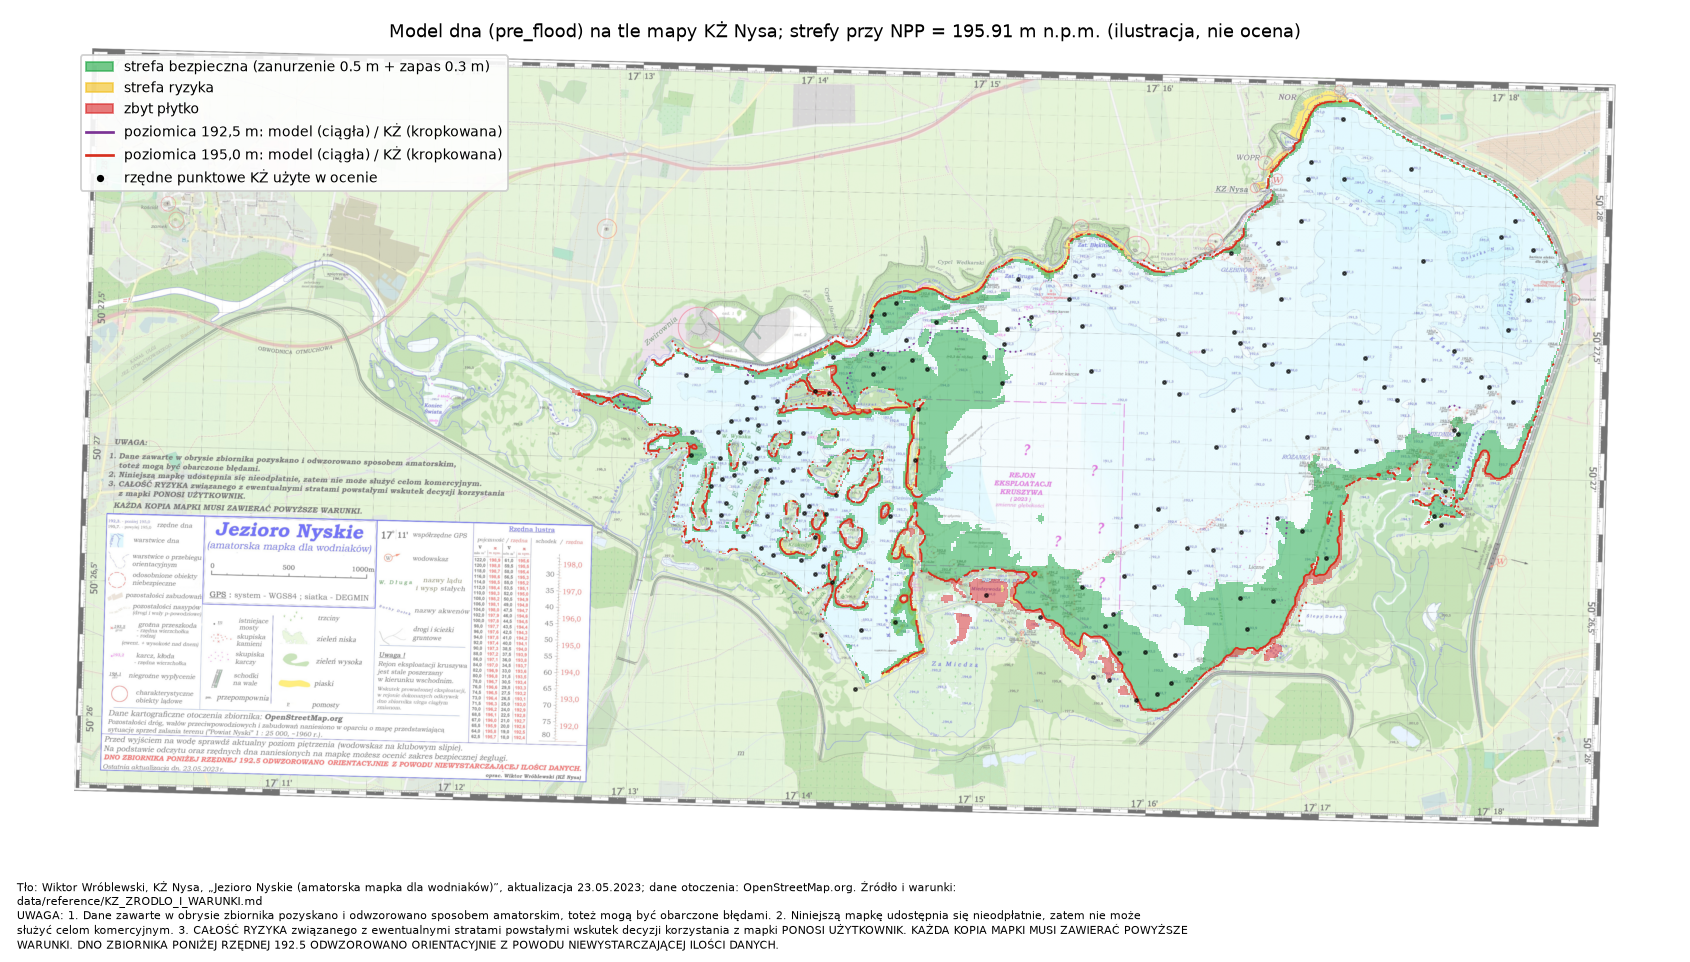
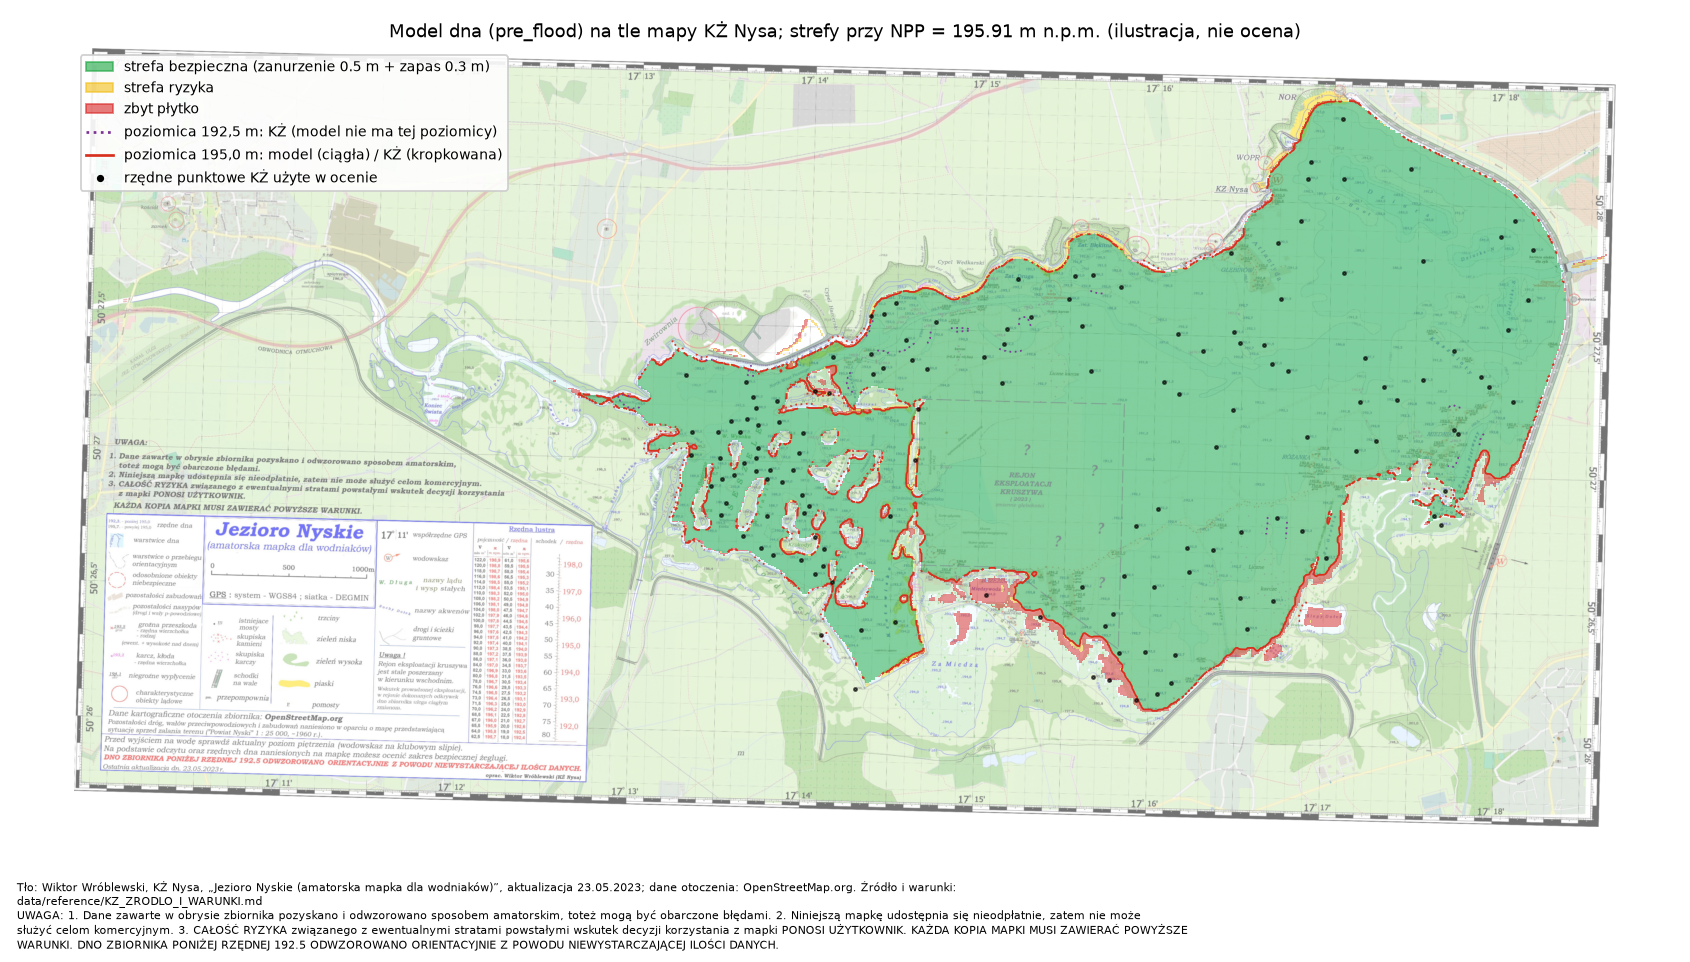
fix(pipeline): KŻ positional rejects, variant D on ≥192.5 spots, docs

diff --git a/JezioroNyskie/pipeline/10_kz_compare.py b/JezioroNyskie/pipeline/10_kz_compare.py
@@ -41,7 +41,10 @@ import matplotlib
 
 matplotlib.use("Agg")
 import matplotlib.pyplot as plt
+import textwrap
 from matplotlib.colors import ListedColormap
+from matplotlib.lines import Line2D
+from matplotlib.patches import Patch
 from pathlib import Path
 
 from mielizna import bottom, kz, kz_compare, variant_d
@@ -59,6 +62,7 @@ UWAGA = ("UWAGA: 1. Dane zawarte w obrysie zbiornika pozyskano i odwzorowano spo
          "Z POWODU NIEWYSTARCZAJĄCEJ ILOŚCI DANYCH.")
 SOURCE = ("Tło: Wiktor Wróblewski, KŻ Nysa, „Jezioro Nyskie (amatorska mapka dla wodniaków)”, aktualizacja 23.05.2023; "
           "dane otoczenia: OpenStreetMap.org. Źródło i warunki: data/reference/KZ_ZRODLO_I_WARUNKI.md")
+SOURCE_REF = "data/reference/KZ_ZRODLO_I_WARUNKI.md"
 DRAFT, MARGIN = 0.5, 0.3      # parametry ilustracyjne stref nakładki (zanurzenie, zapas); to nie jest wynik oceny
 
 
@@ -105,7 +109,7 @@ def run_points() -> dict:
                 "n_spots_used": int(len(spots)), "n_spots_checked": int(spots.checked.sum()),
                 "spots_source": spots.z_source.value_counts().to_dict(),
                 "gravel_excluded": int(shapely.contains_xy(gravel, spots.geometry.x, spots.geometry.y).sum()),
-                "bias_definition": "bias = średnia(model z - KŻ z)", "indicative": True})
+                "bias_definition": "bias = średnia(model z - KŻ z)", "indicative": True, "source": SOURCE_REF})
     if qc is not None and len(qc):
         matched, n_unmatched = kz.match_qc(qc, ocr)                          # QC z kotwicą -> id punktu OCR
         matched = matched.merge(ocr[["id", "color_ok", "conf"]], on="id", how="left")
@@ -125,7 +129,7 @@ def run_contours() -> dict:
     grid = reference_grid()
     model, _ = bottom.read_model(proc / "model" / "pre_flood")
     kzc = gpd.read_file(proc / "kz" / "kz_contours.gpkg")
-    res = {"model": "pre_flood", "indicative": True,
+    res = {"model": "pre_flood", "indicative": True, "source": SOURCE_REF,
            "note": "poziomice KŻ to próbka precision-first (nie cała poziomica); wynik orientacyjny"}
     for level in (192.5, 195.0):
         kz_geom = shapely.union_all(kzc[kzc.level == level].geometry.to_numpy())
@@ -151,7 +155,7 @@ def run_compare() -> int:
            "go_no_go": gng, "ocr_error_rate": pts.get("ocr_error_rate"), "bands": {k: pts[k] for k in kz_compare.BAND_KEYS},
            "contours": {k: v for k, v in con.items() if k[0].isdigit()}, "georef_verdict": pts["georef_verdict"],
            "unit": pts["unit"], "npp": pts["npp"], "indicative": True,
-           "source": "data/reference/KZ_ZRODLO_I_WARUNKI.md"}
+           "source": SOURCE_REF}
     _write("kz_compare.json", out)
     log.info("go/no-go: %s (bias %+.2f)", gng["decision"], p["bias"])
     return 0
@@ -163,14 +167,15 @@ def run_overlay() -> int:
     model, _ = bottom.read_model(proc / "model" / "pre_flood")
     npp = kz_compare.npp_level(pd.read_csv(data_path("reference", "kz_pojemnosc_rzedna.csv")))
     zl, zh, z = model["z_min"], model["z_max"], model["z"]
-    in_model = np.isfinite(z)
-    lo = np.where(np.isnan(zl), -np.inf, zl)
-    hi = np.where(np.isnan(zh), np.inf, zh)
+    obs, flags = model["obs_count"], model["flags"]
+    in_model = ~((obs == 0) | (obs == 65535) | (flags == 255))     # jak backend/app/data.py
+    lo = np.where(in_model, np.where(np.isnan(zl), -np.inf, zl), np.nan)   # NaN w z_min = zawsze woda, w z_max = zawsze ląd
+    hi = np.where(in_model, np.where(np.isnan(zh), np.inf, zh), np.nan)
     with np.errstate(invalid="ignore"):
         cls = np.full(z.shape, 2, int)                          # 2 = ryzyko
         cls[npp - hi >= DRAFT + MARGIN] = 1                     # 1 = bezpiecznie (jak backend/app/zones.py)
         cls[npp - lo < DRAFT] = 3                               # 3 = zbyt płytko
-    cls = np.where(in_model & (npp > z), cls, 0)
+    cls = np.where(in_model & (npp > lo), cls, 0)                # tylko woda przy NPP (jak zone_stats: h > z_lo)
     cmap = ListedColormap([(0, 0, 0, 0), (0.1, 0.65, 0.25, 0.5), (0.95, 0.75, 0.1, 0.5), (0.85, 0.15, 0.15, 0.5)])
     with rasterio.open(proc / "kz" / "kz_map_2180.tif") as ds:
         img = np.moveaxis(ds.read(), 0, -1)
@@ -181,9 +186,8 @@ def run_overlay() -> int:
     ax.imshow(rgba, extent=(b.left, b.right, b.bottom, b.top), interpolation="bilinear")
     xmin, ymin, xmax, ymax = grid.bounds()
     ax.imshow(cls, extent=(xmin, xmax, ymin, ymax), cmap=cmap, vmin=0, vmax=3, interpolation="nearest")
-    for level, col in ((192.5, "#7b3294"), (195.0, "#d7301f")):
-        line = kz_compare.model_contour(z, grid, level)
-        for g in line.geoms:
+    for level, col in ((192.5, "#7b3294"), (195.0, "#d7301f")):        # 192,5 m: model go nie ma (z_min = 192,94), pętla nic nie rysuje
+        for g in kz_compare.model_contour(z, grid, level).geoms:
             ax.plot(*g.xy, color=col, lw=1.0)
     kzc = gpd.read_file(proc / "kz" / "kz_contours.gpkg")
     for level, col in ((192.5, "#7b3294"), (195.0, "#d7301f")):
@@ -192,21 +196,28 @@ def run_overlay() -> int:
     _, _, spots = _qc_spots()
     ax.scatter(spots.geometry.x, spots.geometry.y, s=3, c="k", alpha=0.6, zorder=5)
     ax.set_xlim(b.left, b.right); ax.set_ylim(b.bottom, b.top); ax.set_aspect("equal"); ax.axis("off")
-    from matplotlib.lines import Line2D
-    from matplotlib.patches import Patch
     ax.legend(handles=[Patch(color=(0.1, 0.65, 0.25, 0.6), label=f"strefa bezpieczna (zanurzenie {DRAFT} m + zapas {MARGIN} m)"),
                        Patch(color=(0.95, 0.75, 0.1, 0.6), label="strefa ryzyka"), Patch(color=(0.85, 0.15, 0.15, 0.6), label="zbyt płytko"),
-                       Line2D([], [], color="#7b3294", label="poziomica 192,5 m: model (ciągła) / KŻ (kropkowana)"),
+                       Line2D([], [], color="#7b3294", ls=":", label="poziomica 192,5 m: KŻ (model nie ma tej poziomicy)"),
                        Line2D([], [], color="#d7301f", label="poziomica 195,0 m: model (ciągła) / KŻ (kropkowana)"),
                        Line2D([], [], marker="o", color="k", ls="", ms=3, label="rzędne punktowe KŻ użyte w ocenie")],
               loc="upper left", fontsize=7.5, framealpha=0.9)
     ax.set_title(f"Model dna (pre_flood) na tle mapy KŻ Nysa; strefy przy NPP = {npp:.2f} m n.p.m. (ilustracja, nie ocena)", fontsize=10)
-    import textwrap
     fig.text(0.01, 0.01, "\n".join(textwrap.wrap(SOURCE, 190) + textwrap.wrap(UWAGA, 190)), fontsize=6, va="bottom", ha="left")
     fig.subplots_adjust(left=0.01, right=0.99, top=0.95, bottom=0.14)
     IMG.mkdir(parents=True, exist_ok=True)
     fig.savefig(IMG / "kz-overlay.png", dpi=130)
     log.info("zapisano %s", IMG / "kz-overlay.png")
+    return 0
+
+
+def run_points_cmd() -> int:
+    run_points()
+    return 0
+
+
+def run_contours_cmd() -> int:
+    run_contours()
     return 0
 
 
@@ -284,7 +295,7 @@ def main(argv=None) -> int:
     ap = argparse.ArgumentParser(description=__doc__.splitlines()[0])
     ap.add_argument("cmd", choices=["variant-d", "points", "contours", "overlay", "compare"])
     args = ap.parse_args(argv)
-    return {"variant-d": run_variant_d, "points": lambda: (run_points(), 0)[1], "contours": lambda: (run_contours(), 0)[1],
+    return {"variant-d": run_variant_d, "points": run_points_cmd, "contours": run_contours_cmd,
             "overlay": run_overlay, "compare": run_compare}[args.cmd]()
 
 

diff --git a/JezioroNyskie/pipeline/mielizna/kz.py b/JezioroNyskie/pipeline/mielizna/kz.py
@@ -783,7 +783,7 @@ def vertices_to_polygon(verts, t: "KzTransform"):
     return poly
 
 
-def load_qc_spots(ocr: "gpd.GeoDataFrame", qc: pd.DataFrame | None) -> "gpd.GeoDataFrame":
+def load_qc_spots(ocr: "gpd.GeoDataFrame", qc: pd.DataFrame | None, position_reject: list[dict] | None = None) -> "gpd.GeoDataFrame":
     """Punkty rzędnych mapy KŻ nadające się do użycia (wariant D, K5): po kontroli ręcznej, a bez niej po filtrze.
 
     Co robi: wiersze QC przypisuje do punktów OCR po kotwicy (`match_qc`: ≤ 3 px i ta sama `ocr_z`). Punkt z
@@ -794,9 +794,22 @@ def load_qc_spots(ocr: "gpd.GeoDataFrame", qc: pd.DataFrame | None) -> "gpd.GeoD
       nieocenionych, więc oceny ręczne zawsze wygrywają z filtrem.
     Wejście → wyjście: GeoDataFrame OCR (id, z, px, py, conf, color_ok, geometry) i QC (ocr_z, qc, z_qc, px, py)
       lub None -> GeoDataFrame tych punktów z kolumną `z` (po korekcie) i `z_source` in {ocr_ok, qc_ok, qc_corrected}.
+      `position_reject` (domyślnie `kz.spot_position_reject` z config.yaml): lista wpisów {px, py, ocr_z, reason} punktów, których
+      KOTWICA stoi w złym miejscu (np. na przecinku/kropce innej liczby). Kontrola ręczna ocenia rzędną, nie może przesunąć
+      kotwicy, więc takie punkty (nawet `ok`/`corrected`) odpadają, dopasowane jak `match_qc` (≤ 3 px i ta sama `ocr_z`).
     Jak to obronić: testy obu ścieżek; kolor i pewność to te same progi co warstwa „podejrzane” w kontroli."""
     out = ocr.copy()
     out["z_source"] = "unchecked"
+    if position_reject is None:
+        from mielizna.config import load_config
+        position_reject = load_config().get("kz", {}).get("spot_position_reject") or []
+    pos_hit = np.zeros(len(out), bool)
+    for e in position_reject:
+        d = np.hypot(out["px"].to_numpy(float) - float(e["px"]), out["py"].to_numpy(float) - float(e["py"]))
+        hit = (d <= QC_MATCH_PX) & (np.abs(out["z"].to_numpy(float) - float(e["ocr_z"])) < QC_MATCH_DZ)
+        if hit.any():
+            logging.getLogger(__name__).info("load_qc_spots: odrzucono %d punkt(ów) o błędnej kotwicy (%s)", int(hit.sum()), e.get("reason", ""))
+            pos_hit |= hit
     if qc is not None and len(qc):
         matched, _ = match_qc(qc, out)
         judged = matched[matched["qc"].isin(["ok", "corrected", "rejected"])].drop_duplicates("id", keep="last")
@@ -814,6 +827,7 @@ def load_qc_spots(ocr: "gpd.GeoDataFrame", qc: pd.DataFrame | None) -> "gpd.GeoD
         out.loc[fixed, "z"] = newz
         out.loc[fixed, "z_source"] = np.where(bad, "qc_corrected_fallback", "qc_corrected")
         out.loc[v == "rejected", "z_source"] = "qc_rejected"
+    out.loc[pos_hit, "z_source"] = "position_rejected"                  # po QC: kontrola nie przesuwa kotwicy
     unchecked = out["z_source"] == "unchecked"
     keep_unchecked = unchecked & ~is_suspect(out)
     out.loc[keep_unchecked, "z_source"] = "ocr_ok"

diff --git a/JezioroNyskie/pipeline/mielizna/kz_compare.py b/JezioroNyskie/pipeline/mielizna/kz_compare.py
@@ -164,7 +164,7 @@ def compare_contours(kz_geom, model_geom, clip_m: float = CLIP_M) -> dict:
         return {**out, "mean_distance_m": float("nan"), "hausdorff_m": float("nan"),
                 "kz_to_model_mean_m": float("nan"), "kz_to_model_p90_m": float("nan")}
     d = _dists(kz_geom, model_geom)
-    out.update({"mean_distance_m": mean_distance(kz_geom, clipped), "hausdorff_m": float(shapely.hausdorff_distance(kz_geom, clipped)),
+    out.update({"mean_distance_m": mean_distance(kz_geom, clipped), "hausdorff_m": float(max(_dists(kz_geom, clipped).max(), _dists(clipped, kz_geom).max())),
                 "kz_to_model_mean_m": float(d.mean()), "kz_to_model_p90_m": float(np.percentile(d, 90)),
                 "clip_m": float(clip_m)})
     return out
@@ -174,13 +174,13 @@ def go_no_go(bias: float, datum_offset: float, other_biases: dict) -> dict:
     """|bias| > 0,5 m -> „investigate” z listą sprawdzonych przyczyn; inaczej „go”. Same fakty, bez korekt.
 
     `datum_offset`: przesunięcie KRON86 -> EVRF2007 [m]; `other_biases`: biasy z oceny LiDAR (Task 8) do zestawienia."""
-    notes = [f"Układ wysokości: układ rzędnych mapy KŻ jest nieznany (prawdopodobnie wodowskaz lokalny/RZGW). Bias względem KŻ "
+    notes = [f"Układ wysokości: układ rzędnych mapy KŻ jest nieznany (nie ustalono). Bias względem KŻ "
              f"{bias:+.2f} m, przesunięcie KRON86->EVRF2007 {datum_offset:+.3f} m: różnica bias - offset = {bias - datum_offset:+.2f} m."]
     for name, b in other_biases.items():
         notes.append(f"Bias dna względem LiDAR ({name}): {b:+.2f} m; różnica bias_KŻ - bias_LiDAR = {bias - b:+.2f} m.")
     notes.append("Dno z 2023: mapa KŻ (aktualizacja 23.05.2023) opisuje dno sprzed powodzi z września 2024, model pre_flood obejmuje "
                  "sceny do 31.08.2024, więc zmiany dna po 2023 nie są przyczyną różnic przed powodzią, ale różnica dat zostaje.")
-    notes.append("Sposób pomiaru: dane KŻ pozyskano sposobem amatorskim (echosonda/odczyty, bez opisu niepewności); "
-                 "poniżej 192,5 m dno jest orientacyjne.")
+    notes.append("Sposób pomiaru: mapa KŻ deklaruje, że dane pozyskano sposobem amatorskim, bez podanej niepewności; "
+                 "dno poniżej 192,5 m mapa opisuje jako orientacyjne.")
     decision = "investigate" if abs(bias) > BIAS_LIMIT else "go"
     return {"decision": decision, "bias": float(bias), "limit": BIAS_LIMIT, "datum_offset": float(datum_offset), "notes": notes}

diff --git a/JezioroNyskie/pipeline/tests/test_kz_compare.py b/JezioroNyskie/pipeline/tests/test_kz_compare.py
@@ -118,3 +118,34 @@ def test_go_no_go_investigate_when_bias_large():
 
 def test_npp_matches_backend_value():
     assert kz_compare.npp_level() == pytest.approx(195.91, abs=0.01)
+
+
+def _ocr_two():
+    return gpd.GeoDataFrame({"id": [0, 1], "z": [188.3, 188.3], "px": [100.0, 500.0], "py": [100.0, 500.0], "conf": [95.0, 95.0],
+                             "color_ok": [True, True]}, geometry=[Point(0, 0), Point(10, 10)], crs="EPSG:2180")
+
+
+def test_position_reject_drops_even_qc_judged_spot():
+    ocr = _ocr_two()
+    qc = pd.DataFrame({"id": [0, 1], "ocr_z": [188.3, 188.3], "qc": ["corrected", "ok"], "z_qc": [195.1, np.nan],
+                       "px": [100.0, 500.0], "py": [100.0, 500.0]})
+    rej = [{"px": 101.0, "py": 99.0, "ocr_z": 188.3, "reason": "test"}]
+    assert kz.load_qc_spots(ocr, qc, position_reject=rej).id.tolist() == [1]
+    assert kz.load_qc_spots(ocr, qc, position_reject=[]).id.tolist() == [0, 1]
+    far = [{"px": 110.0, "py": 100.0, "ocr_z": 188.3, "reason": "za daleko"}]
+    assert len(kz.load_qc_spots(ocr, qc, position_reject=far)) == 2
+
+
+def test_config_position_reject_entries_have_reasons():
+    from mielizna.config import load_config
+    ent = load_config()["kz"]["spot_position_reject"]
+    assert len(ent) == 2 and all(e["reason"] and {"px", "py", "ocr_z"} <= set(e) for e in ent)
+
+
+def test_variant_d_surface_ignores_spots_below_192_5():
+    from mielizna import variant_d
+    sp = spots([(105, 105, 190.0), (905, 105, 194.0), (505, 905, 194.0)])
+    cont = gpd.GeoDataFrame({"level": [195.0]}, geometry=[LineString([(0, 500), (990, 500)])], crs="EPSG:2180")
+    with_deep = variant_d.kz_surface(sp, cont, GRID, min_spot_z=0)
+    surf = variant_d.kz_surface(sp, cont, GRID)
+    assert np.nanmin(with_deep) < 192.0 and np.nanmin(surf) >= 193.99

diff --git a/JezioroNyskie/pipeline/mielizna/variant_d.py b/JezioroNyskie/pipeline/mielizna/variant_d.py
@@ -26,6 +26,9 @@ SHORE_STEP_M = 10.0
 REF_LEVEL = 194.0        # poziom odniesienia długości poziomicy (środek zakresu, gdzie powierzchnia jest dobrze określona)
 MIN_LENGTH_FRAC = 0.5    # poziomica "istnieje" gdy jej długość ≥ 50 % długości na REF_LEVEL
 MIN_POINTS = 50          # poniżej tylu punktów brzegu z powierzchnią scenę pomijamy (kilkaset m brzegu)
+MIN_SPOT_Z = 192.5       # mapa KŻ sama opisuje dno poniżej 192,5 m jako „orientacyjne” (blok UWAGA, KZ_ZRODLO_I_WARUNKI.md), więc
+#                          punkty rzędnych głębsze niż to nie wchodzą do TIN (poziomice 192,5 i 195,0 m wchodzą). Próg wybrany po
+#                          ablacji (M7 §6), uzasadniony zastrzeżeniem samej mapy.
 VERTEX_STEP_M = 20.0     # poziomice KŻ zagęszczamy do tego kroku, żeby TIN nie "ścinał" łuków
 
 
@@ -45,8 +48,11 @@ def _line_points(geom, step: float) -> np.ndarray:
     return np.asarray(pts, float).reshape(-1, 2)
 
 
-def kz_surface(spots, contours, grid: Grid, gravel=None) -> np.ndarray:
-    """Powierzchnia dna z punktów rzędnych i poziomic KŻ (TIN, liniowo); NaN poza otoczką i w żwirowni."""
+def kz_surface(spots, contours, grid: Grid, gravel=None, min_spot_z: float = MIN_SPOT_Z) -> np.ndarray:
+    """Powierzchnia dna z punktów rzędnych i poziomic KŻ (TIN, liniowo); NaN poza otoczką i w żwirowni.
+
+    Punkty z rzędną < `min_spot_z` (domyślnie 192,5 m: dno „orientacyjne” wg samej mapy KŻ) są pomijane."""
+    spots = spots[spots["z"].to_numpy(float) >= min_spot_z]
     px = np.c_[spots.geometry.x.to_numpy(), spots.geometry.y.to_numpy(), spots["z"].to_numpy(float)]
     parts = [px]
     for g, lv in zip(contours.geometry, contours["level"]):

diff --git a/JezioroNyskie/pipeline/tests/test_variant_d.py b/JezioroNyskie/pipeline/tests/test_variant_d.py
@@ -58,14 +58,14 @@ def _inputs():
 def test_surface_nan_in_gravel_and_outside_hull():
     spots, cont = _inputs()
     gravel = Polygon([(2000, 2000), (2400, 2000), (2400, 2400), (2000, 2400)])
-    surf = variant_d.kz_surface(spots, cont, GRID, gravel=gravel)
+    surf = variant_d.kz_surface(spots, cont, GRID, gravel=gravel, min_spot_z=0.0)   # fixture ma punkty < 192,5 m
     r, c = GRID.rowcol(2200, 2200)
     assert np.isnan(surf[r, c])
     r, c = GRID.rowcol(300, 300)                # poza otoczką punktów
     assert np.isnan(surf[r, c])
     r, c = GRID.rowcol(3000, 3500)
     assert surf[r, c] == pytest.approx(191.0, abs=0.1)
-    no_gravel = variant_d.kz_surface(spots, cont, GRID)
+    no_gravel = variant_d.kz_surface(spots, cont, GRID, min_spot_z=0.0)
     r, c = GRID.rowcol(2200, 2200)
     assert np.isfinite(no_gravel[r, c])
 
